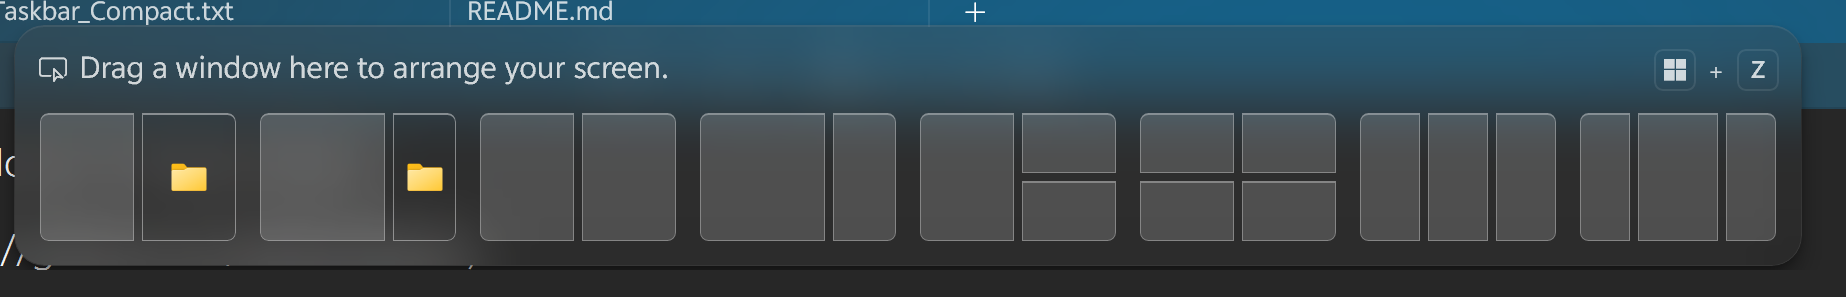
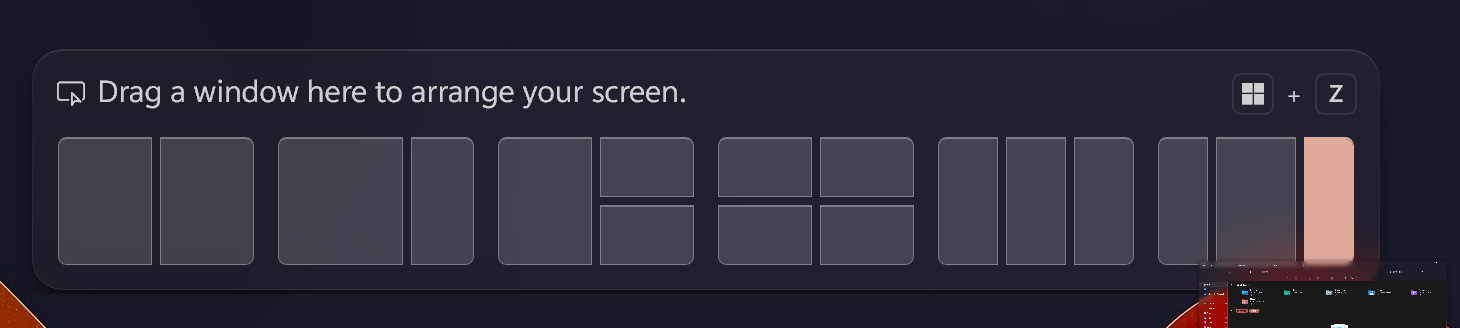
Changed all Images

diff --git a/Themes/WindowGlass/README.md b/Themes/WindowGlass/README.md
@@ -8,19 +8,9 @@
 ## Center Aligned
 ![Center](TB_Centered.png)
 
-## Volume and Brightness HUD
-![Volume HUD](HUD_Volume.png) 
-![Brightness HUD](HUD_Brightness.png)
-
-## Window Snap Layout HUD
-![Snap Layout Picker 1](Snap_Layout.png) 
-![Snap Layout Picker 2](Snap_Layout_2.png) 
-![Snap Layout Picker 3](Snap_Layout_1.png) 
-
 
 ## Note
-In order to make the taskbar look better, it is advised to install the 'Taskbar height and icon size' mod (Link) and use the following setting for the mod:
-
+In order to make the taskbar look better, it's best that you install the 'Taskbar height and icon size' mod (Link) and use the following setting for the mod:
 <details>
 <summary>Click to expand JSON content</summary>
 
@@ -36,8 +26,20 @@ In order to make the taskbar look better, it is advised to install the 'Taskbar 
 ```
 </details>
 
+## Bonus
+- This Theme also Styles additional parts of Windows 11, including:
 
-## Better to Know
+- **Volume and Brightness HUD**
+![Volume HUD](HUD_Volume.png) 
+![Brightness HUD](HUD_Brightness.png)
+
+- **Window Snap Layout HUD**
+![Snap Layout Picker 1](Snap_Layout.png) 
+![Snap Layout Picker 2](Snap_Layout_2.png) 
+![Snap Layout Picker 3](Snap_Layout_1.png) 
+
+
+## More Details about this theme
 - Theme is designed on Windows 11 - 24H2
 - Compatible with both Light/ Dark mode
 - Install [vivo Sans En VF](Link will soon be uploaded)
